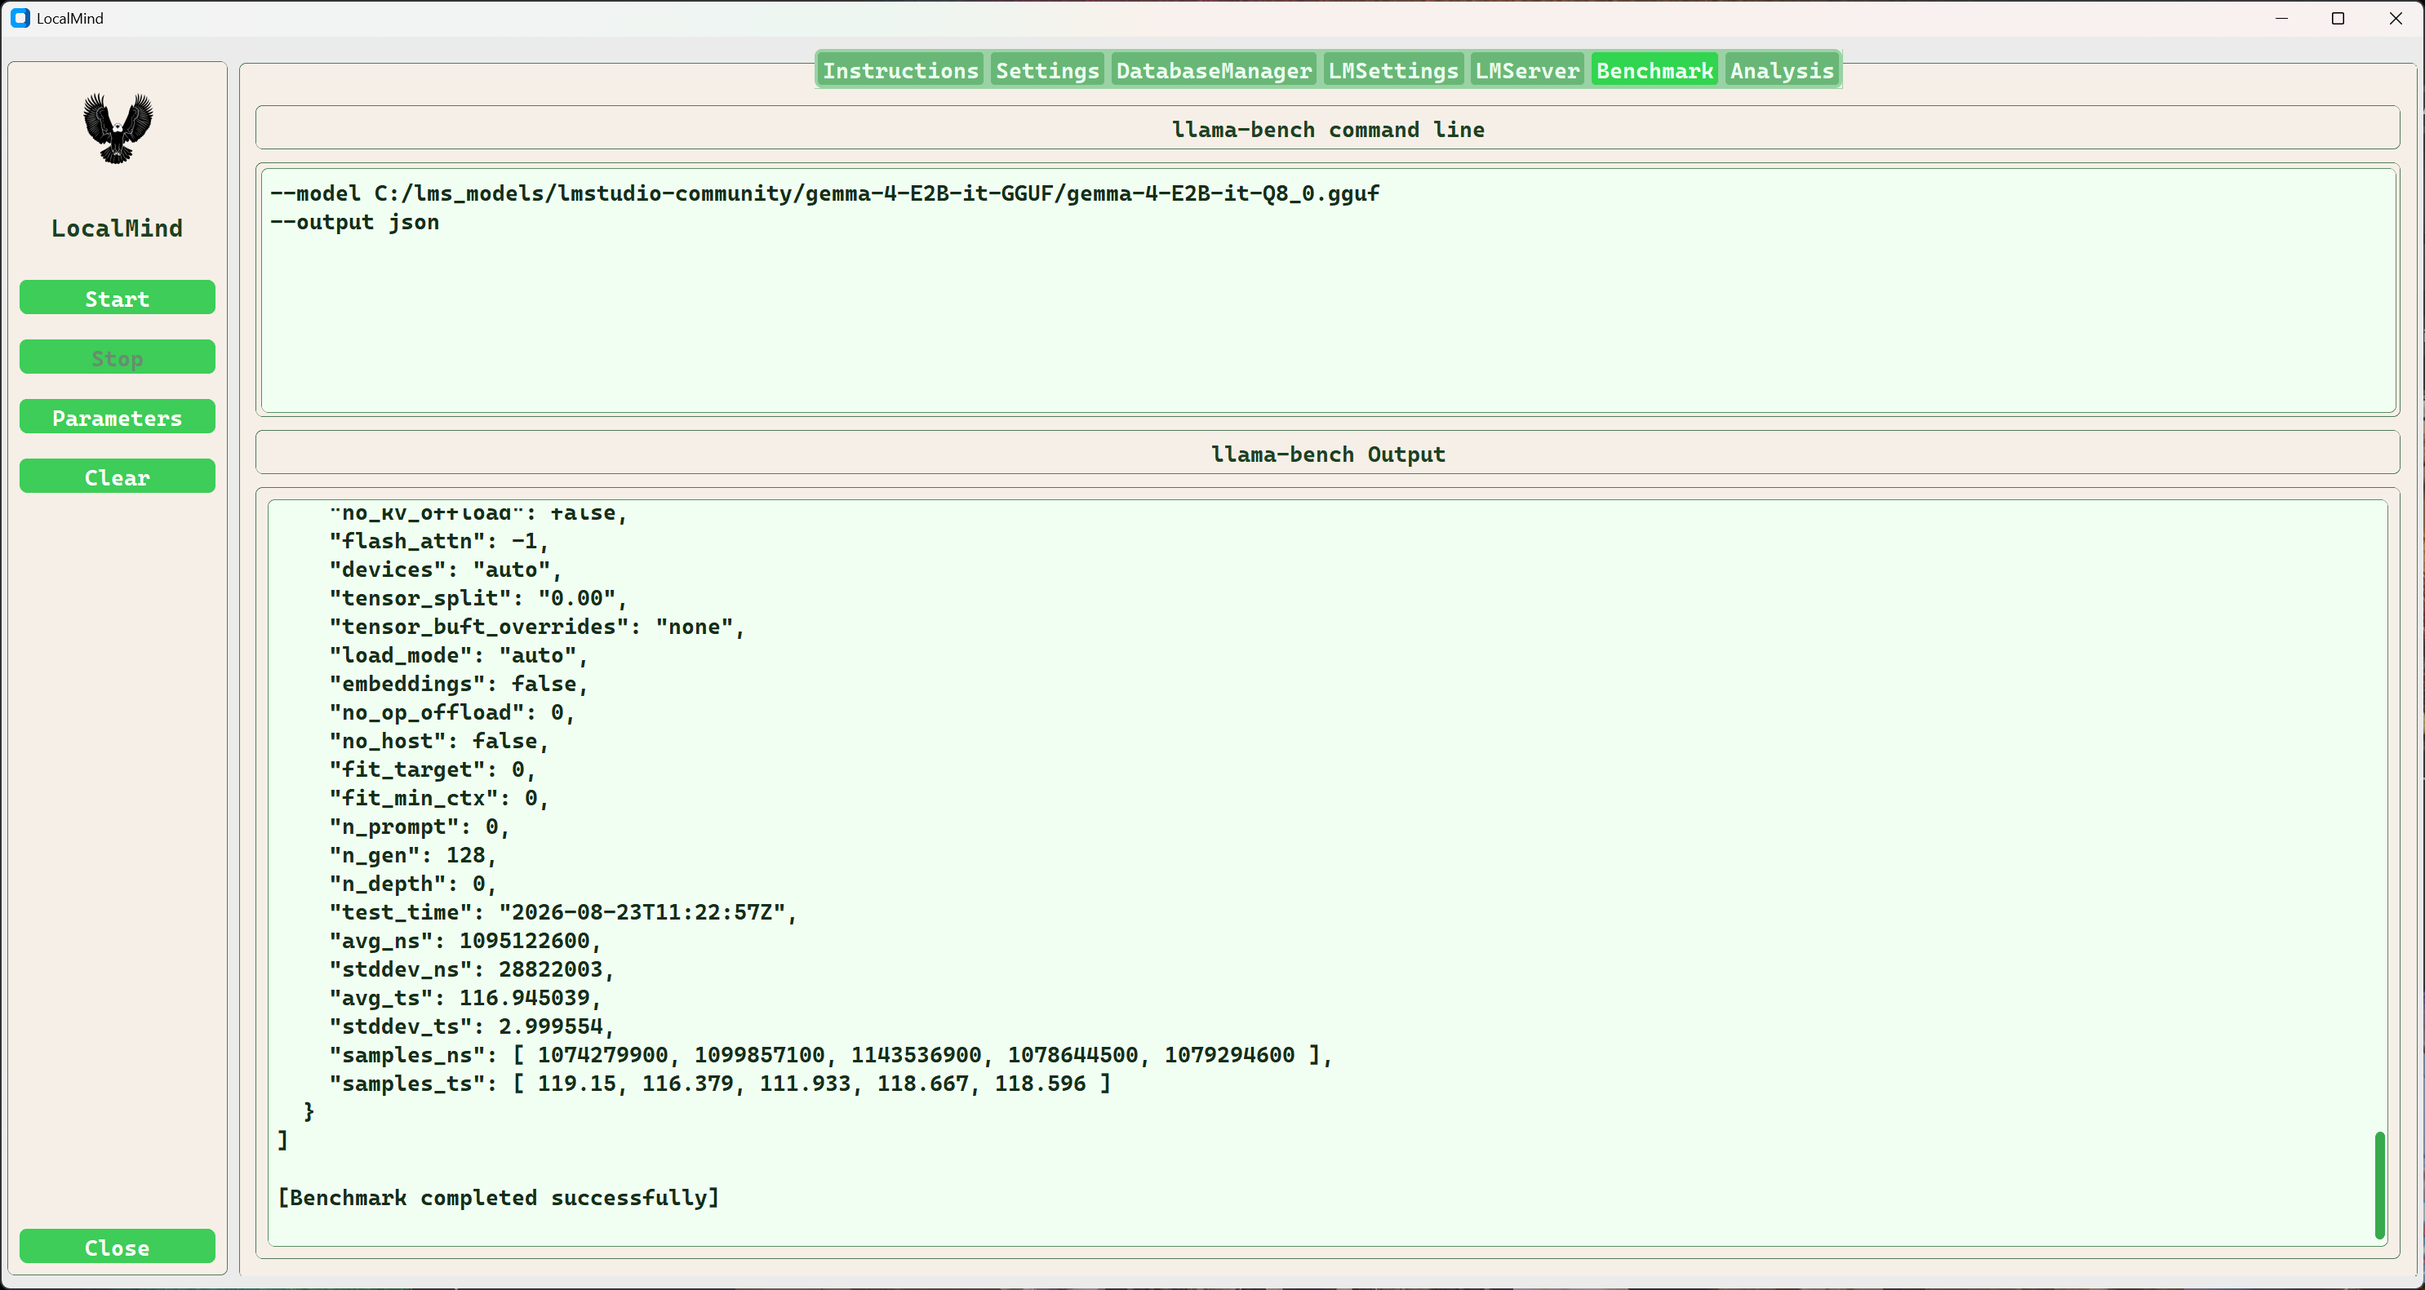
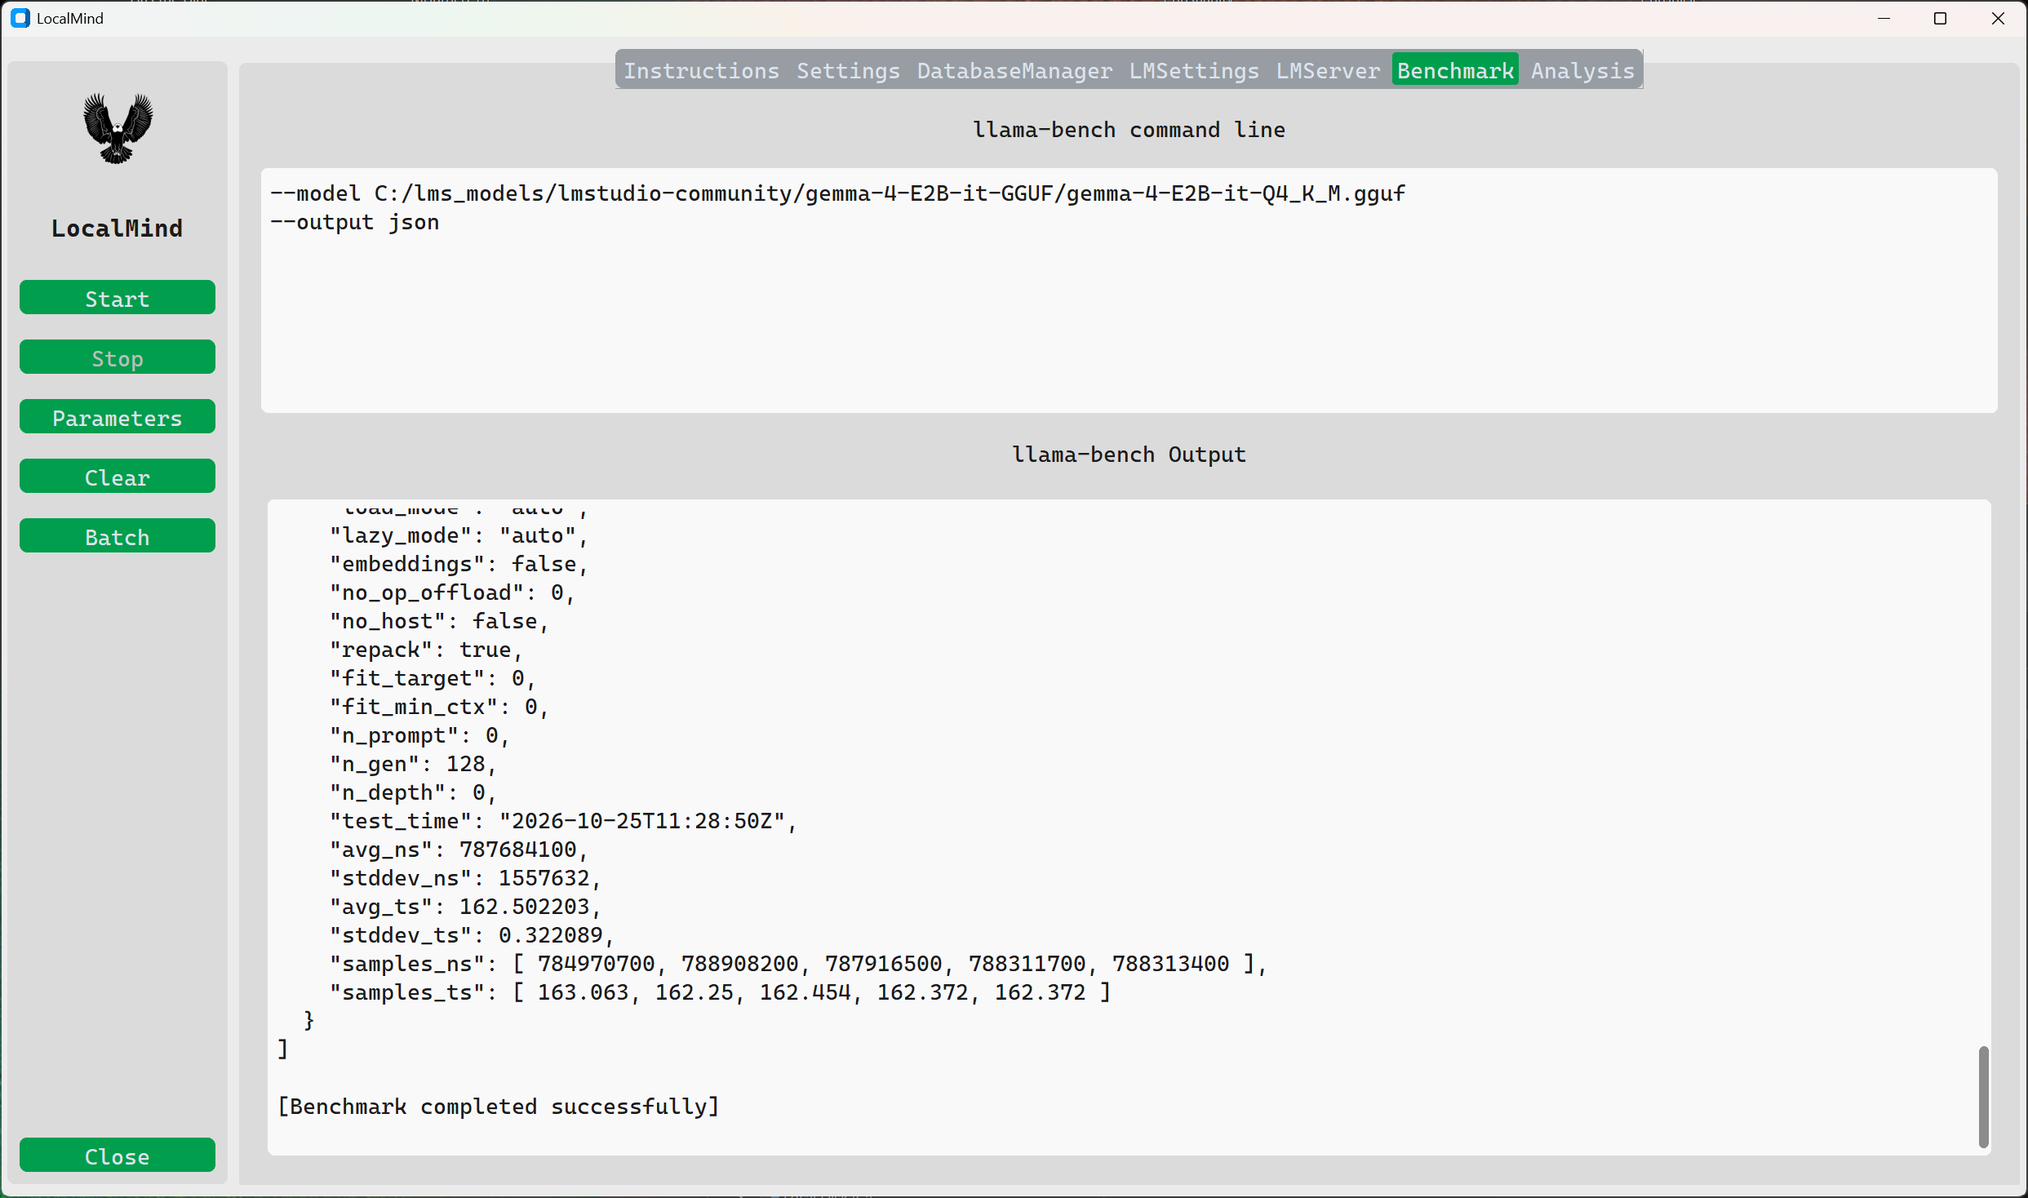
Added batch mode benchmarking, updated documents and added select all and clear all buttions in CBoolListbox.

diff --git a/src/localmind/gui/CTkBenchmarkView.py b/src/localmind/gui/CTkBenchmarkView.py
@@ -2,16 +2,19 @@
 
 import customtkinter as ctk # type: ignore
 import tkinter as tk
+import time
 import copy
 from datetime import datetime
 import socket
 
 from localmind.widgets.CTkYesNo import CTkYesNo
 from localmind.widgets.LlamaBenchSettingsDialog import LlamaBenchSettingsDialog
+from localmind.widgets.CTkBoolListbox import CTkBoolListbox
 
 from localmind.gui.CTkAppData import CTkAppData
 
 from localmind.gui.CTkAppView import CTkAppView, FontSpec
+from localmind.gui.CTkLMSettings import CTkLMSettings
 
 from localmind.utils.LlamaBenchmarkData import LlamaBenchmarkData, parse_results, LlamaBenchModelInfo, LlamaBenchRunInfo, LlamaBenchResult
 from localmind.utils.kill_llama_servers import kill_llama_servers, get_llama_server_procs
@@ -84,6 +87,14 @@ class CTkBenchmarkView(CTkAppView):
         self.end_time: datetime | None = None
         self.last_benchmark_command: list[str] | None = None
 
+        # Batch run related state
+        self.batch_running: bool = False
+        self.selected_models: list[str] = []
+        self.selected_model_index: int = 0
+        self.current_model: Path | None = None
+        self.last_running_state: bool = False
+        self.batch_cooldown_delay: float = 5.0
+
         self.initialize_widgets()
 
     def get_connection_string(self, database: Optional[str] = None) -> str:
@@ -106,7 +117,8 @@ class CTkBenchmarkView(CTkAppView):
                 'first', # start
                 'last',  # stop
                 'edit',  # edit the settings for the current filter, GPU/MODEL/BACKEND
-                'new'    # clear the graph
+                'new',   # clear the output widget
+                'next'   # batch run
                 ]
 
 
@@ -120,15 +132,19 @@ class CTkBenchmarkView(CTkAppView):
             "first": "Start",
             "last": "Stop",
             "edit": "Parameters",
-            "new": "Clear"
+            "new": "Clear",
+            "next": "Batch"
         })
-        if self.run_button is not None and self.stop_button is not None:
+        if self.run_button is not None and self.stop_button is not None and self.next_button is not None:
             if self.benchmark_running:
                 self.run_button.configure(state="disabled")
                 self.stop_button.configure(state="normal")
+                self.next_button.configure(state="disabled")
+
             else:
                 self.run_button.configure(state="normal")
                 self.stop_button.configure(state="disabled")
+                self.next_button.configure(state="normal")
     
 
     def initialize_widgets(self) -> None:
@@ -137,6 +153,7 @@ class CTkBenchmarkView(CTkAppView):
         self.stop_button: ctk.CTkButton | None = self.data.get_button('last')
         self.clear_button: ctk.CTkButton | None = self.data.get_button('new')
         self.edit_button: ctk.CTkButton | None = self.data.get_button('edit')
+        self.next_button: ctk.CTkButton | None = self.data.get_button('next')
 
         # relabel the sidebar buttons to Start and Stop and enable them
         if self.run_button is not None:
@@ -151,6 +168,8 @@ class CTkBenchmarkView(CTkAppView):
             self.clear_button.configure(text='Clear')
         if self.edit_button is not None:
             self.edit_button.configure(text='Parameters')
+        if self.next_button is not None:
+            self.next_button.configure(text='Batch')
 
         self.frame.grid_columnconfigure(0, weight=1)
         self.frame.grid_rowconfigure(3, weight=1)
@@ -209,14 +228,35 @@ class CTkBenchmarkView(CTkAppView):
         """
         self.update_benchmark_summary()
 
-    def append_console(self, text: str) -> None:
-        self.console.insert("end", text)
-        self.console.see("end")
-
     def set_server_running(self, running: bool) -> None:
-        if self.run_button is not None and self.stop_button is not None:
+        if self.run_button is not None and self.stop_button is not None and self.next_button is not None:
             self.run_button.configure(state="disabled" if running else "normal")
             self.stop_button.configure(state="normal" if running else "disabled")
+            self.next_button.configure(state="normal" if running else "disabled")
+
+    def batch_run_benchmark(self) -> None:
+        if self.benchmark_running:
+            return
+        all_models = CTkLMSettings.find_gguf_models(Path(self.lm_server_settings.settings.model_path), logger=self.data.logger)
+        self.selected_models = CTkBoolListbox(self.parent, title='Select Models', items=list(all_models.keys()), font=self.font).selected_items
+        if not self.selected_models:
+            return
+        self.batch_running = True
+        if self.benchmark_options is None:
+            self.benchmark_options = {}
+        self.benchmark_options['--output'] = 'json'
+        
+        self.selected_model_index = 0
+        self.batch_running = True
+        self.current_model = Path(self.lm_server_settings.settings.model_path) / self.selected_models[self.selected_model_index]
+        self.last_running_state = self.benchmark_running
+        self.benchmark_options['--model'] = self.current_model
+
+        self.append_benchmark_output("Starting batch benchmark run...\n")
+
+        self.append_benchmark_output(f"Current model for benchmarking: {self.current_model}\n")
+
+        self.run_benchmark()
 
     def run_benchmark(self) -> None:
         if self.benchmark_running:
@@ -228,14 +268,14 @@ class CTkBenchmarkView(CTkAppView):
                               message=f"Found {len(running_servers)} running llama-server processes. Do you want to terminate them?", 
                               font=self.font)
             if yes_no.result is False:
-                self.append_console("User chose not to terminate running llama-server processes. Aborting benchmark start.\n")
+                self.append_benchmark_output("User chose not to terminate running llama-server processes. Aborting benchmark start.\n")
                 return 
-            self.append_console(f"Found {len(running_servers)} running llama-server processes. Attempting to terminate them...\n")
+            self.append_benchmark_output(f"Found {len(running_servers)} running llama-server processes. Attempting to terminate them...\n")
             pids = kill_llama_servers(logger=self.data.logger)
             if pids:
-                self.append_console(f"Terminated llama-server processes: {pids}\n")
+                self.append_benchmark_output(f"Terminated llama-server processes: {pids}\n")
             else:
-                self.append_console("No running llama-server processes found.\n")
+                self.append_benchmark_output("No running llama-server processes found.\n")
         
         self.lm_server_settings = LocalMindSettings(app_name=self.data._app_name if self.data._app_name is not None else "LocalMind",
                                                               logger=self.data.logger)
@@ -269,6 +309,7 @@ class CTkBenchmarkView(CTkAppView):
         self.console.insert(tk.END, text)
         self.console.see(tk.END)
         self.console.configure(state="disabled")
+        self.console.update_idletasks()
 
     def _benchmark_worker(self, cmd: list[str]) -> None:
         try:
@@ -307,7 +348,7 @@ class CTkBenchmarkView(CTkAppView):
         self.benchmark_running = False
         self.benchmark_process = None
         self.set_benchmark_buttons_running(False)
-
+        self.console.update_idletasks()
         def extract_json_from_llama_output(output: str) -> str:
             """
             Extract the first valid JSON array or object from llama-bench output,
@@ -332,6 +373,7 @@ class CTkBenchmarkView(CTkAppView):
                
         if return_code == 0:
             self.append_benchmark_output("\n[Benchmark completed successfully]\n")
+            self.console.update_idletasks()
             raw = extract_json_from_llama_output(self.benchmark_output)
             self.llama_bench_results = parse_results(raw)
             self.data.logger.debug(f"results: {self.llama_bench_results}")
@@ -340,6 +382,21 @@ class CTkBenchmarkView(CTkAppView):
                 self.save_llama_bench_results(self.llama_bench_results)
         else:
             self.append_benchmark_output(f"\n[Benchmark exited with code {return_code}]\n")
+
+        if self.batch_running:
+            self.selected_model_index += 1
+            if self.benchmark_options is None:
+                self.benchmark_options = {}
+            self.benchmark_options['--output'] = 'json'
+
+            if self.selected_model_index < len(self.selected_models):
+                self.current_model = Path(self.lm_server_settings.settings.model_path) / self.selected_models[self.selected_model_index]
+                self.benchmark_options['--model'] = self.current_model
+                time.sleep(self.batch_cooldown_delay)
+                self.run_benchmark()
+            else:
+                self.batch_running = False
+                self.append_benchmark_output("[Batch benchmarking completed]\n")
 
     def save_llama_bench_results(self, results: list[LlamaBenchResult] | None) -> None:
         if not results:
@@ -763,10 +820,11 @@ class CTkBenchmarkView(CTkAppView):
         self.settings_textbox.configure(state="disabled")
 
     def set_benchmark_buttons_running(self, running: bool) -> None:
-        if self.run_button is not None and self.stop_button is not None and self.edit_button is not None:
+        if self.run_button is not None and self.stop_button is not None and self.edit_button is not None and self.next_button is not None:
             self.run_button.configure(state="disabled" if running else "normal")
             self.stop_button.configure(state="normal" if running else "disabled")
             self.edit_button.configure(state="disabled" if running else "normal")       
+            self.next_button.configure(state="disabled" if running else "normal")
 
     def on_sidebar_edit(self) -> None:
         if self.data.benchmark_settings is None or "--output" not in self.data.benchmark_settings or self.data.benchmark_settings["--output"] != "json":
@@ -823,4 +881,9 @@ class CTkBenchmarkView(CTkAppView):
     def on_sidebar_last(self) -> None:
         "Stop the server"
         self.stop_benchmark()
+        return None
+
+    def on_sidebar_next(self) -> None:
+        """Batch run the benchmark"""
+        self.batch_run_benchmark()
         return None

diff --git a/src/localmind/widgets/CTkBoolListbox.py b/src/localmind/widgets/CTkBoolListbox.py
@@ -28,6 +28,7 @@ class CTkBoolListbox(ctk.CTkToplevel):
         else:
             self.items = items
         self.selected_items = selected_items
+        self.checkbuttons: list[ctk.CTkCheckBox] = []
         self.initialize_widgets()
 
     def _fit_list_width(self) -> None:
@@ -105,6 +106,22 @@ class CTkBoolListbox(ctk.CTkToplevel):
         self.cancel_button.pack(
             side='left', padx=10, pady=10)
 
+        self.reset_button = ctk.CTkButton(
+            self.button_frame,
+            text="Reset All",
+            command=self.reset_clicked,
+            font=self.font)
+        self.reset_button.pack(
+            side='left', padx=10, pady=10)
+        
+        self.set_button = ctk.CTkButton(
+            self.button_frame,
+            text="Set All",
+            command=self.set_clicked,
+            font=self.font)
+        self.set_button.pack(
+            side='left', padx=10, pady=10)
+        
         self._fit_list_width()
         self.center_on_parent(self.parent)
 
@@ -114,6 +131,20 @@ class CTkBoolListbox(ctk.CTkToplevel):
         self.wait_visibility()
         self.grab_set()
         self.wait_window(self)
+
+    def reset_clicked(self) -> None:
+        """ reset the selected items to the initial state (unselect all) """
+        self.selected_items = []
+        for var in self.vars:
+            var.set(False)
+        self.update_idletasks()
+
+    def set_clicked(self) -> None:
+        """ set the selected items to the current selection (select all)"""
+        self.selected_items = self.items.copy()
+        for var in self.vars:
+            var.set(True)
+        self.update_idletasks()
 
     def focus_on_first_checkbox(self) -> None:
         if self.checkbuttons:

diff --git a/src/localmind/gui/CTkLMSettings.py b/src/localmind/gui/CTkLMSettings.py
@@ -331,7 +331,8 @@ class CTkLMSettings(CTkAppView):
             self._settings.settings.model_path = str(path)
             self.update_model_combo()
 
-    def find_gguf_models(self, model_root: Path | str) -> Dict[str, Path]:
+    @classmethod
+    def find_gguf_models(cls, model_root: Path | str, logger: Logger | None = None) -> Dict[str, Path]:
         """
         Recursively find .gguf files under model_root.
 
@@ -342,8 +343,8 @@ class CTkLMSettings(CTkAppView):
         if isinstance(model_root, str):
             model_root = Path(model_root) # ensure the path is a Path
         if not model_root.exists() or not model_root.is_dir():
-            if isinstance(self.data.logger, Logger):
-                self.data.logger.debug(f"model_root: '{str(model_root)}' does not exist or is not a directory")
+            if isinstance(logger, Logger):
+                logger.debug(f"model_root: '{str(model_root)}' does not exist or is not a directory")
             return {}
 
         model_files: list[Path] = sorted(

diff --git a/docs/Benchmark.md b/docs/Benchmark.md
@@ -1,6 +1,19 @@
 # Benchmark Tab
 The Benchmark tab is used to benchmark models and backends using the llama-bench command. By default the model and the benchmark setting `--output json` are the only selected options. You should select a valid model because it is likely that the default model is unavailable. Any benchmark setting may be changed and used with the selected model. The LlamaBenchSettingsDialog dialog is shared between the server and the benchmark tabs. 
 The backend that is selected in LMSettings Executable Path is used to launch llama-bench. This setting can only be changed in the LMSetting tab.
+You can run all or any of the models in you model directory using the 'Batch' button. 
+
+## Table of Contents
+
+| **Section** | **Description** | **Link** |
+| :----------- | :-------------- | :------- |
+| *Benchmark Settings* | Selecting model and options for the benchmark run | [The Benchmark Settings Dialog](#the-benchmark-settings-dialog) |
+| *Benchmark Overview* | Benchmark output explanation. | [Benchmark Overview](#benchmark-overview) |
+| *Database implementation* | Database implementation details. | [Database implementation](#database-implementation) |
+| *Benchmark Batch Mode* | Batch mode explanation | [Benchmark Batch Mode](#benchmark-batch-mode) |
+| *Benchmark Tab Screen* | Screen snbips of the benchmark tab | [Benchmark Tab Screen Snips](#benchmark-tab-screen) |
+
+[Table of Contents](#table-of-contents)
 
 **Sidebar Buttons**
 
@@ -10,6 +23,7 @@ The backend that is selected in LMSettings Executable Path is used to launch lla
 | Stop | Ends the current benchmark in progress |
 | Parameters | Click this button to open the benchmark settings dialog.<br>This is where the model is selected and any additional command line arguments to be used for the benchmark|
 | Clear | Click this button to clear the llama-bench Output console. |
+| Batch | Click the button to select and benchmark multiple models. |
 
 ** The Benchmark Settings Dialog **
 
@@ -20,7 +34,9 @@ The backend that is selected in LMSettings Executable Path is used to launch lla
 
 ![Benchmark Settings](./images/benchmark-settings.png)
 
-## Overview
+[Table of Contents](#table-of-contents)
+
+## Benchmark Overview
 
 The benchmark application illama-bench producses two test records for each benchmark, one for prompt and one for generation. The tokens per second for these two test vary significantly.
 
@@ -122,6 +138,7 @@ The benchmark application illama-bench producses two test records for each bench
 ]
 
 ```
+[Table of Contents](#table-of-contents)
 
 ## Database implementation
 
@@ -409,8 +426,34 @@ The following python code is used to initialize the selected database.
                 pass
 
 ```
+[Table of Contents](#table-of-contents)
 
+## Benchmark Batch Mode
 
+The batch mode allows you to run multiple models without needing to select and run each one individually.
+
+- Click the Batch button to start a batch run.
+
+![The batch button](./images/batch-start.png)
+
+- Select the models you want to use in this batch operation.
+
+![Batch model selection](./images/batch-model-selection.png)
+
+Once the models are selected and you click the Ok button the batch mode benchmark begins. You can see the status updated in the llama-bench output window while the batch is running.
+When all the selected models have been benchmarked you will see the 'Batch benchmarking completed' message in the llama-bench output.
+
+![Batch Complete](./images/batch-done.png)
+
+### Benchmark batch cool down delay
+
+In order to minimize stress on your GPU there is a timed delay. The time is maintainedin a variable named `batch_cooldown_delay`. The variable is initialized in CTkBenchmarkView __init__ function. The default setting is 5.0 seconds. If you need to change this it can be modified in the __init__ function.
+
+```python
+   self.batch_cooldown_delay: float = 5.0
+```
+
+[Table of Contents](#table-of-contents)
 
 ## Benchmark Tab Screen
 
